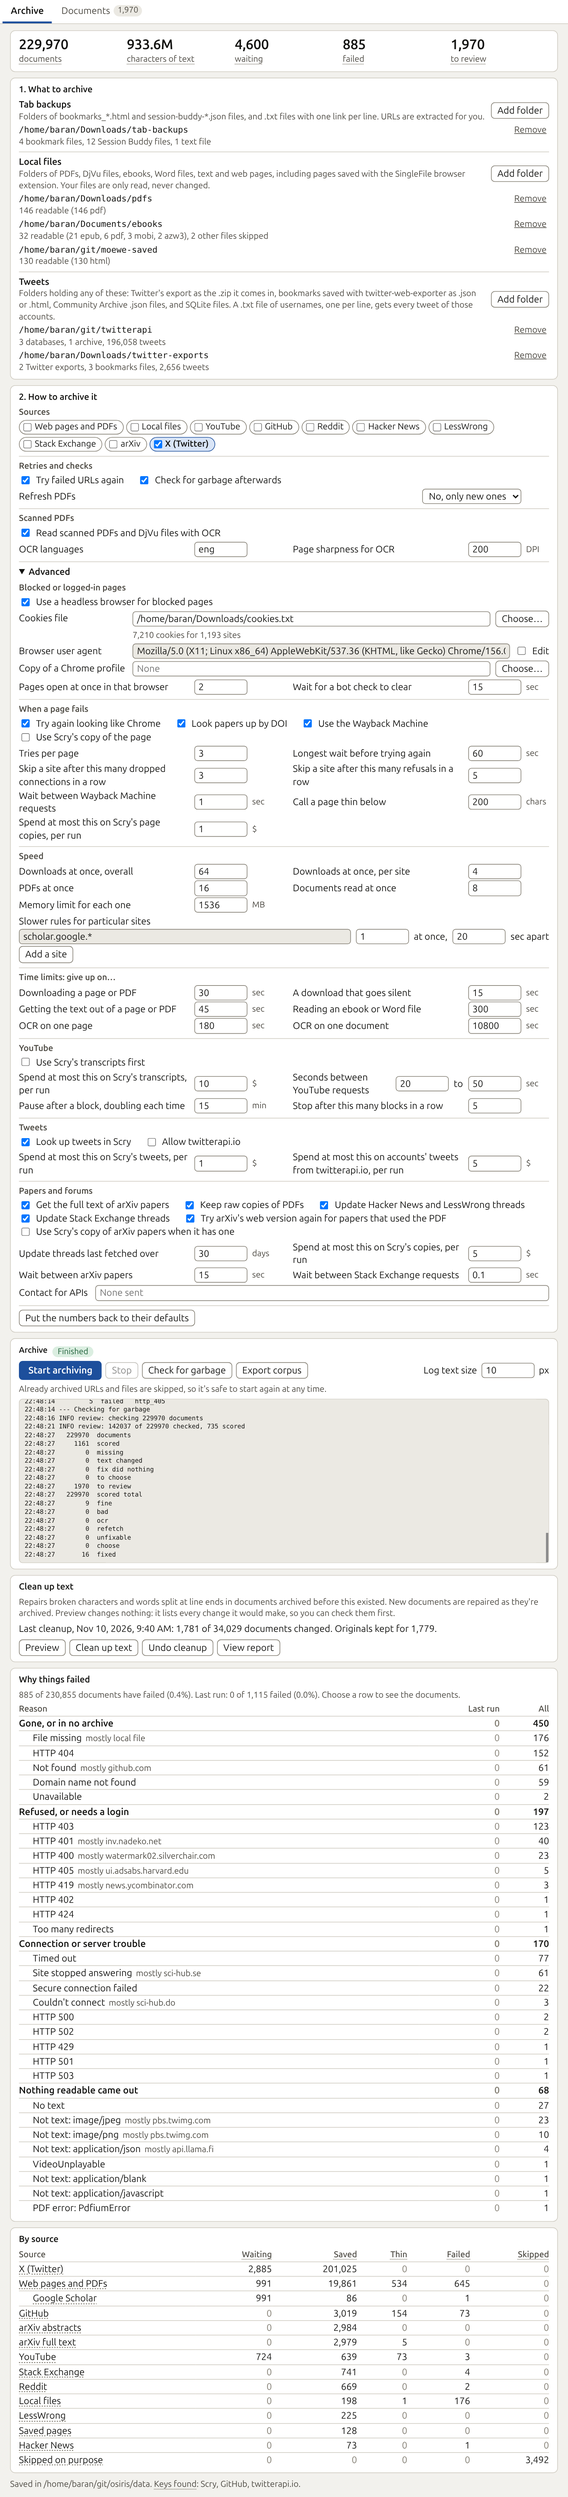
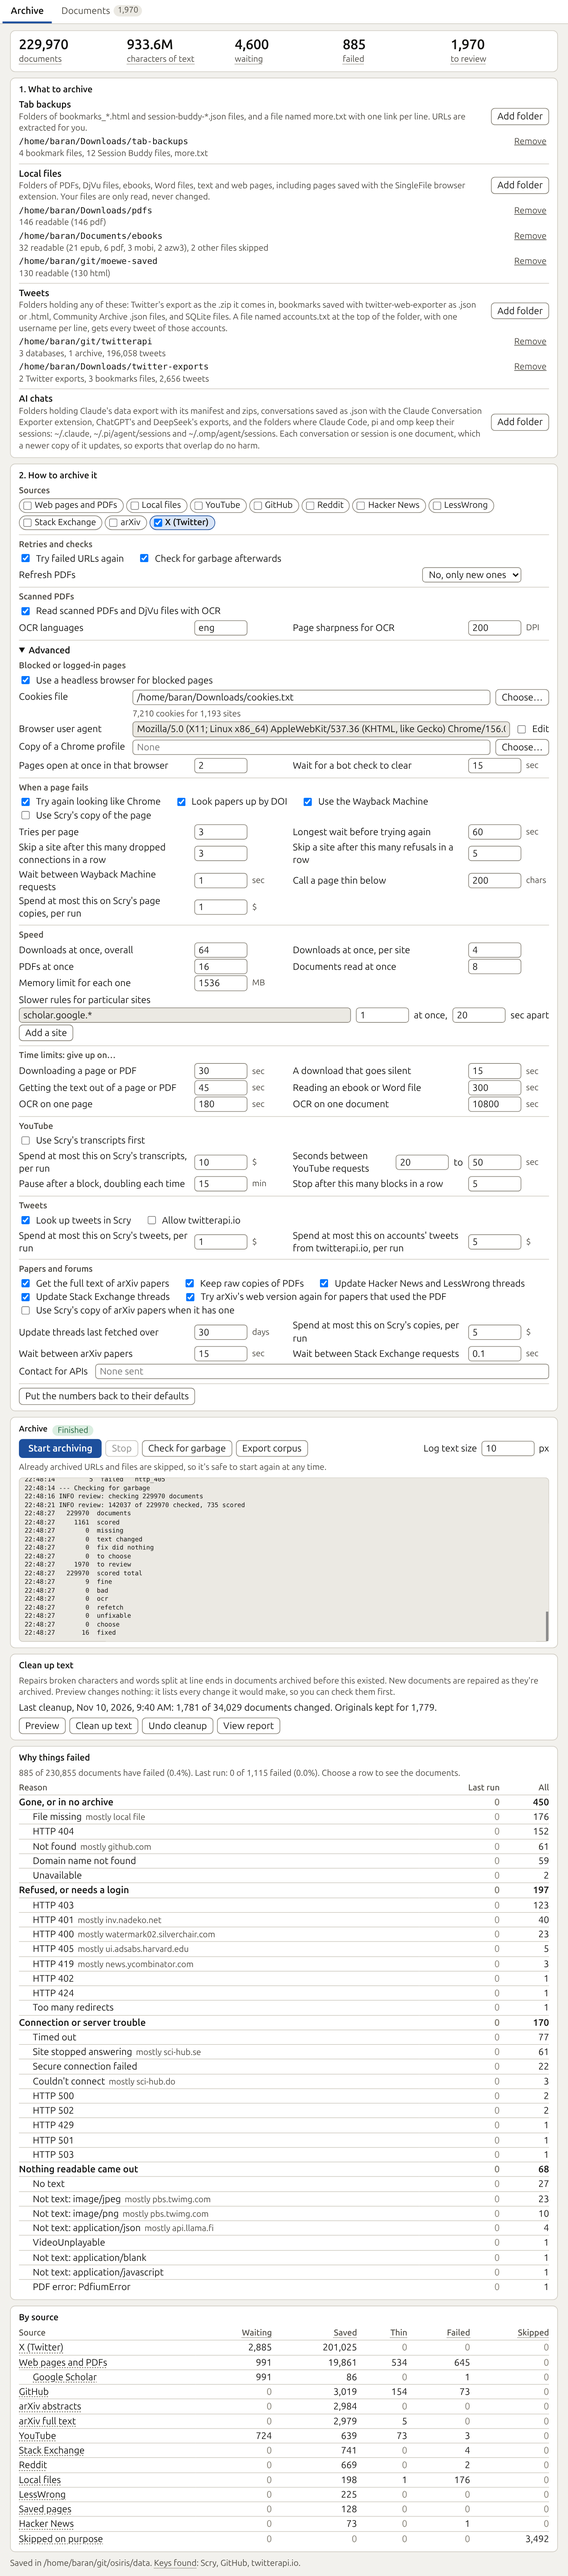
Looking for chat exports and session logs no longer stops at a file it isn't allowed to look at, such as a link a backup copied into a folder you can't read; only files with the right extension are looked at

diff --git a/osiris/chats.py b/osiris/chats.py
@@ -378,6 +378,14 @@ def _kind(value) -> str | None:
 
 # -- files ----------------------------------------------------------------------------------------
 
+def _is_file(path: Path) -> bool:
+    """False for a file that can't be looked at, such as a link into a folder you aren't allowed to read."""
+    try:
+        return path.is_file()
+    except OSError:
+        return False
+
+
 def find_files(paths: list[Path]) -> list[Path]:
     """The files given, and the JSON, JSONL and zip files in the folders given and their subfolders. Hidden
     folders are left out, except the ones Claude Code, pi and omp keep their sessions in, where only the
@@ -387,7 +395,7 @@ def find_files(paths: list[Path]) -> list[Path]:
     for p in paths:
         for f in [p] if p.is_file() else p.rglob("*"):
             suffix = f.suffix.lower()
-            if not f.is_file() or suffix not in SUFFIXES:
+            if suffix not in SUFFIXES or not _is_file(f):
                 continue
             hidden = [part for part in f.parts[len(p.parts):] if part.startswith(".")]
             if hidden and (suffix != ".jsonl" or not all(AGENT_FOLDER.fullmatch(part) for part in hidden)):

diff --git a/osiris/sessions.py b/osiris/sessions.py
@@ -29,7 +29,7 @@ from collections import Counter, defaultdict
 from collections.abc import Iterator
 from pathlib import Path
 
-from .chats import Chat, Turn, _time
+from .chats import Chat, Turn, _is_file, _time
 
 log = logging.getLogger(__name__)
 
@@ -59,7 +59,7 @@ def side_file(path: Path) -> bool:
     """A subagent's log, or an omp advisor's, which repeats the session it belongs to: in Claude Code's
     subagents folder, or in the folder omp keeps beside a session's log, named as the log is."""
     folder = path.parent.name
-    return folder == "subagents" or bool(LOG_NAME.fullmatch(folder)) or (path.parent.parent / f"{folder}{SUFFIX}").is_file()
+    return folder == "subagents" or bool(LOG_NAME.fullmatch(folder)) or _is_file(path.parent.parent / f"{folder}{SUFFIX}")
 
 
 def _lines(path: Path) -> Iterator[dict]:
